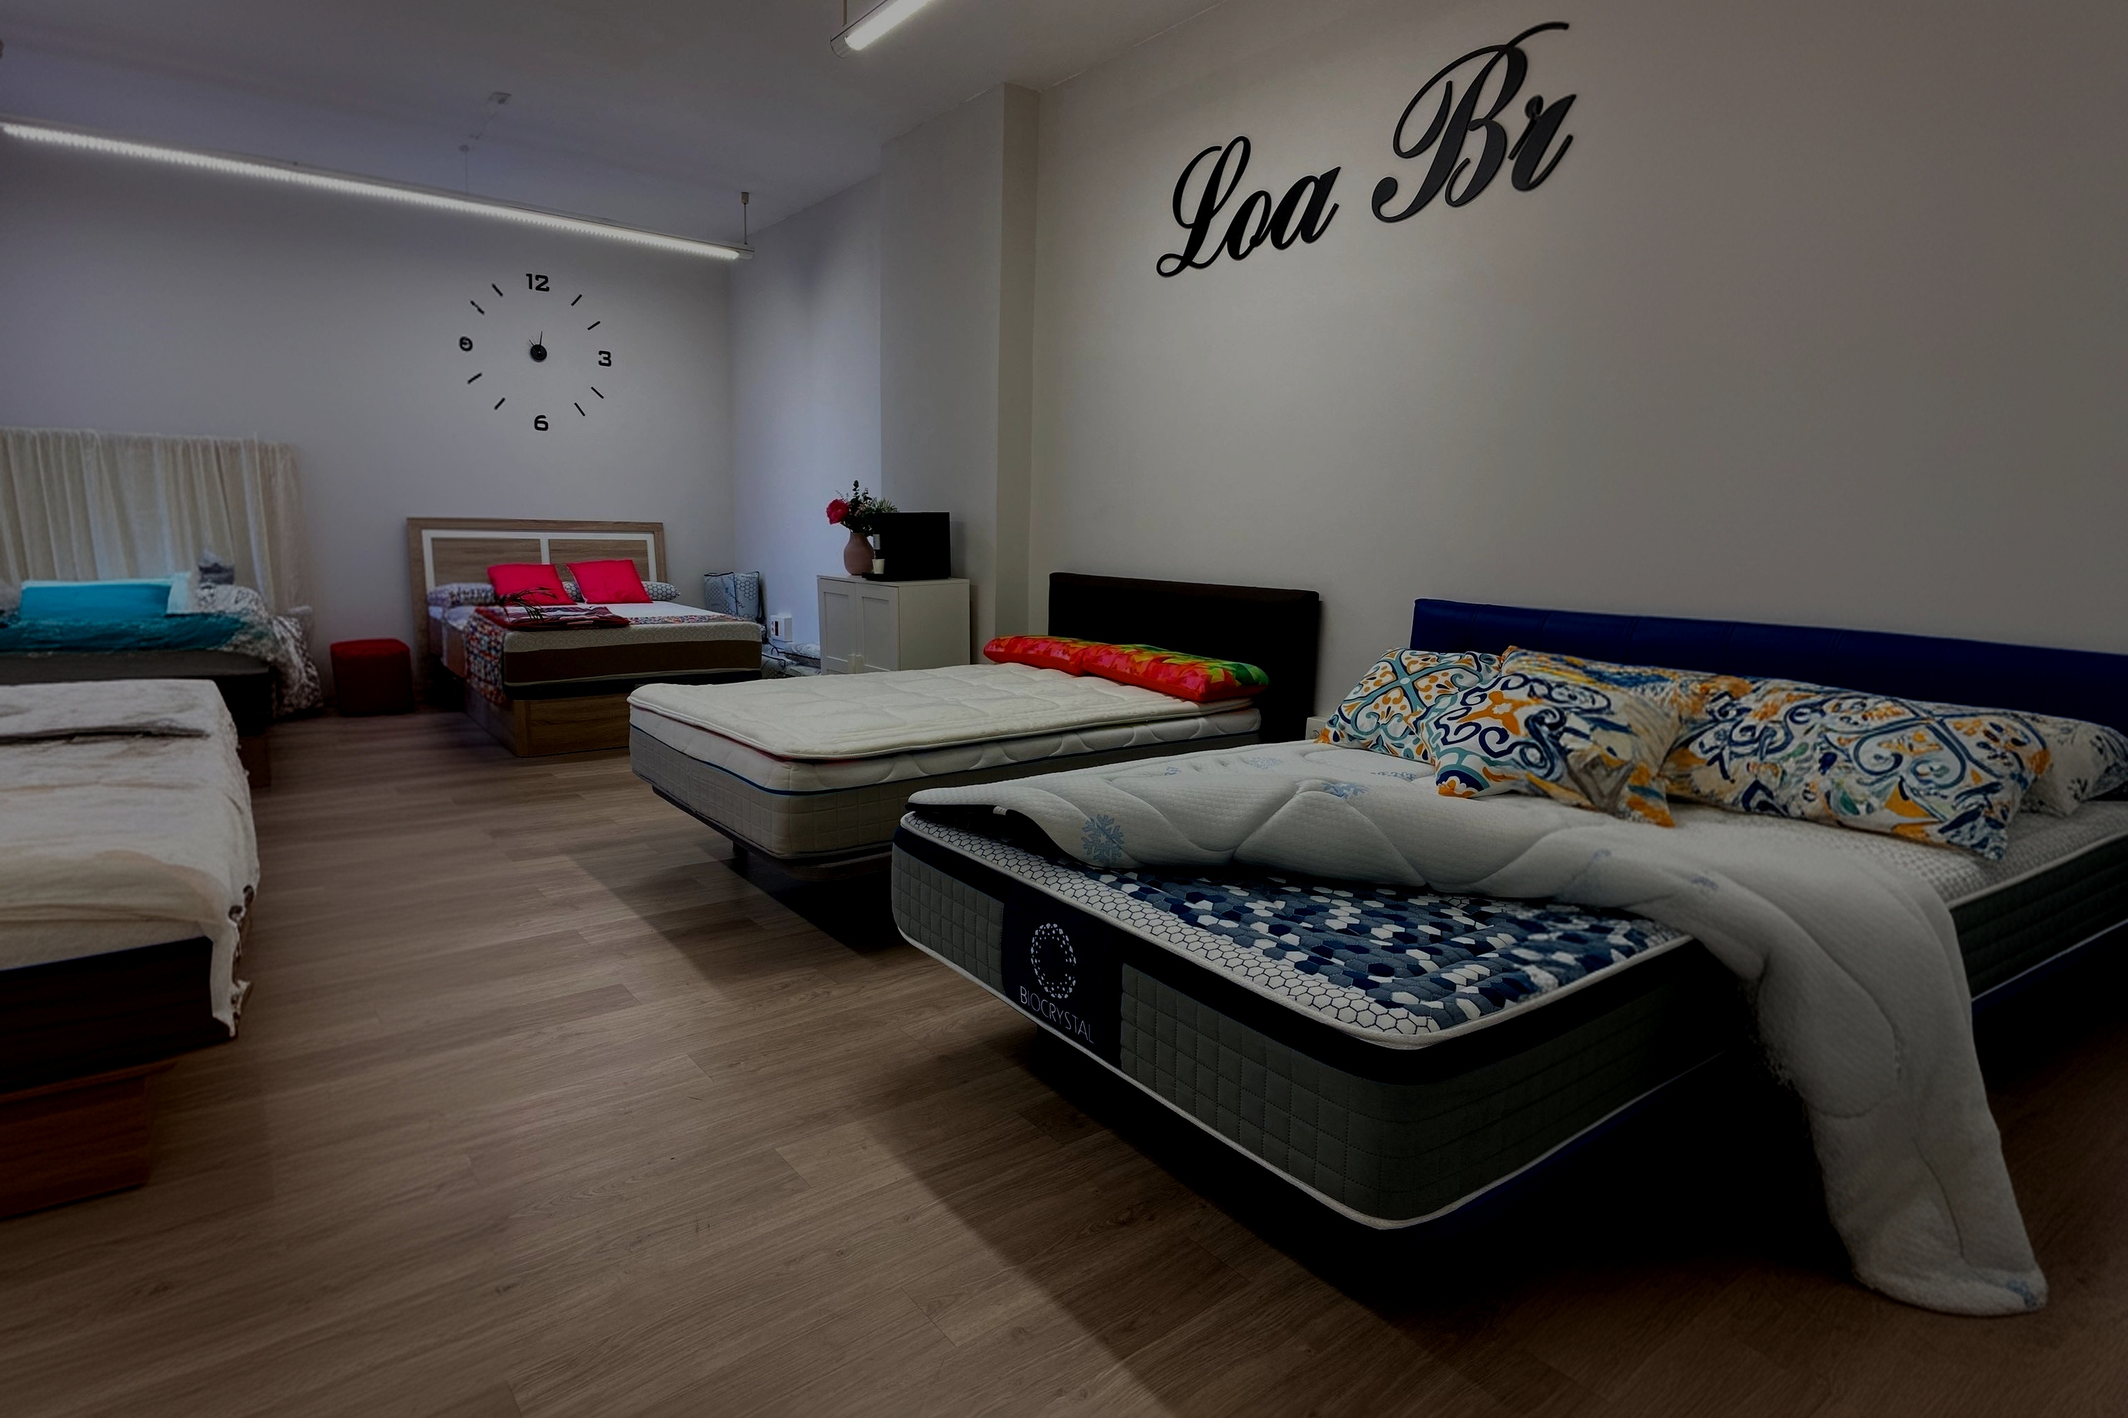
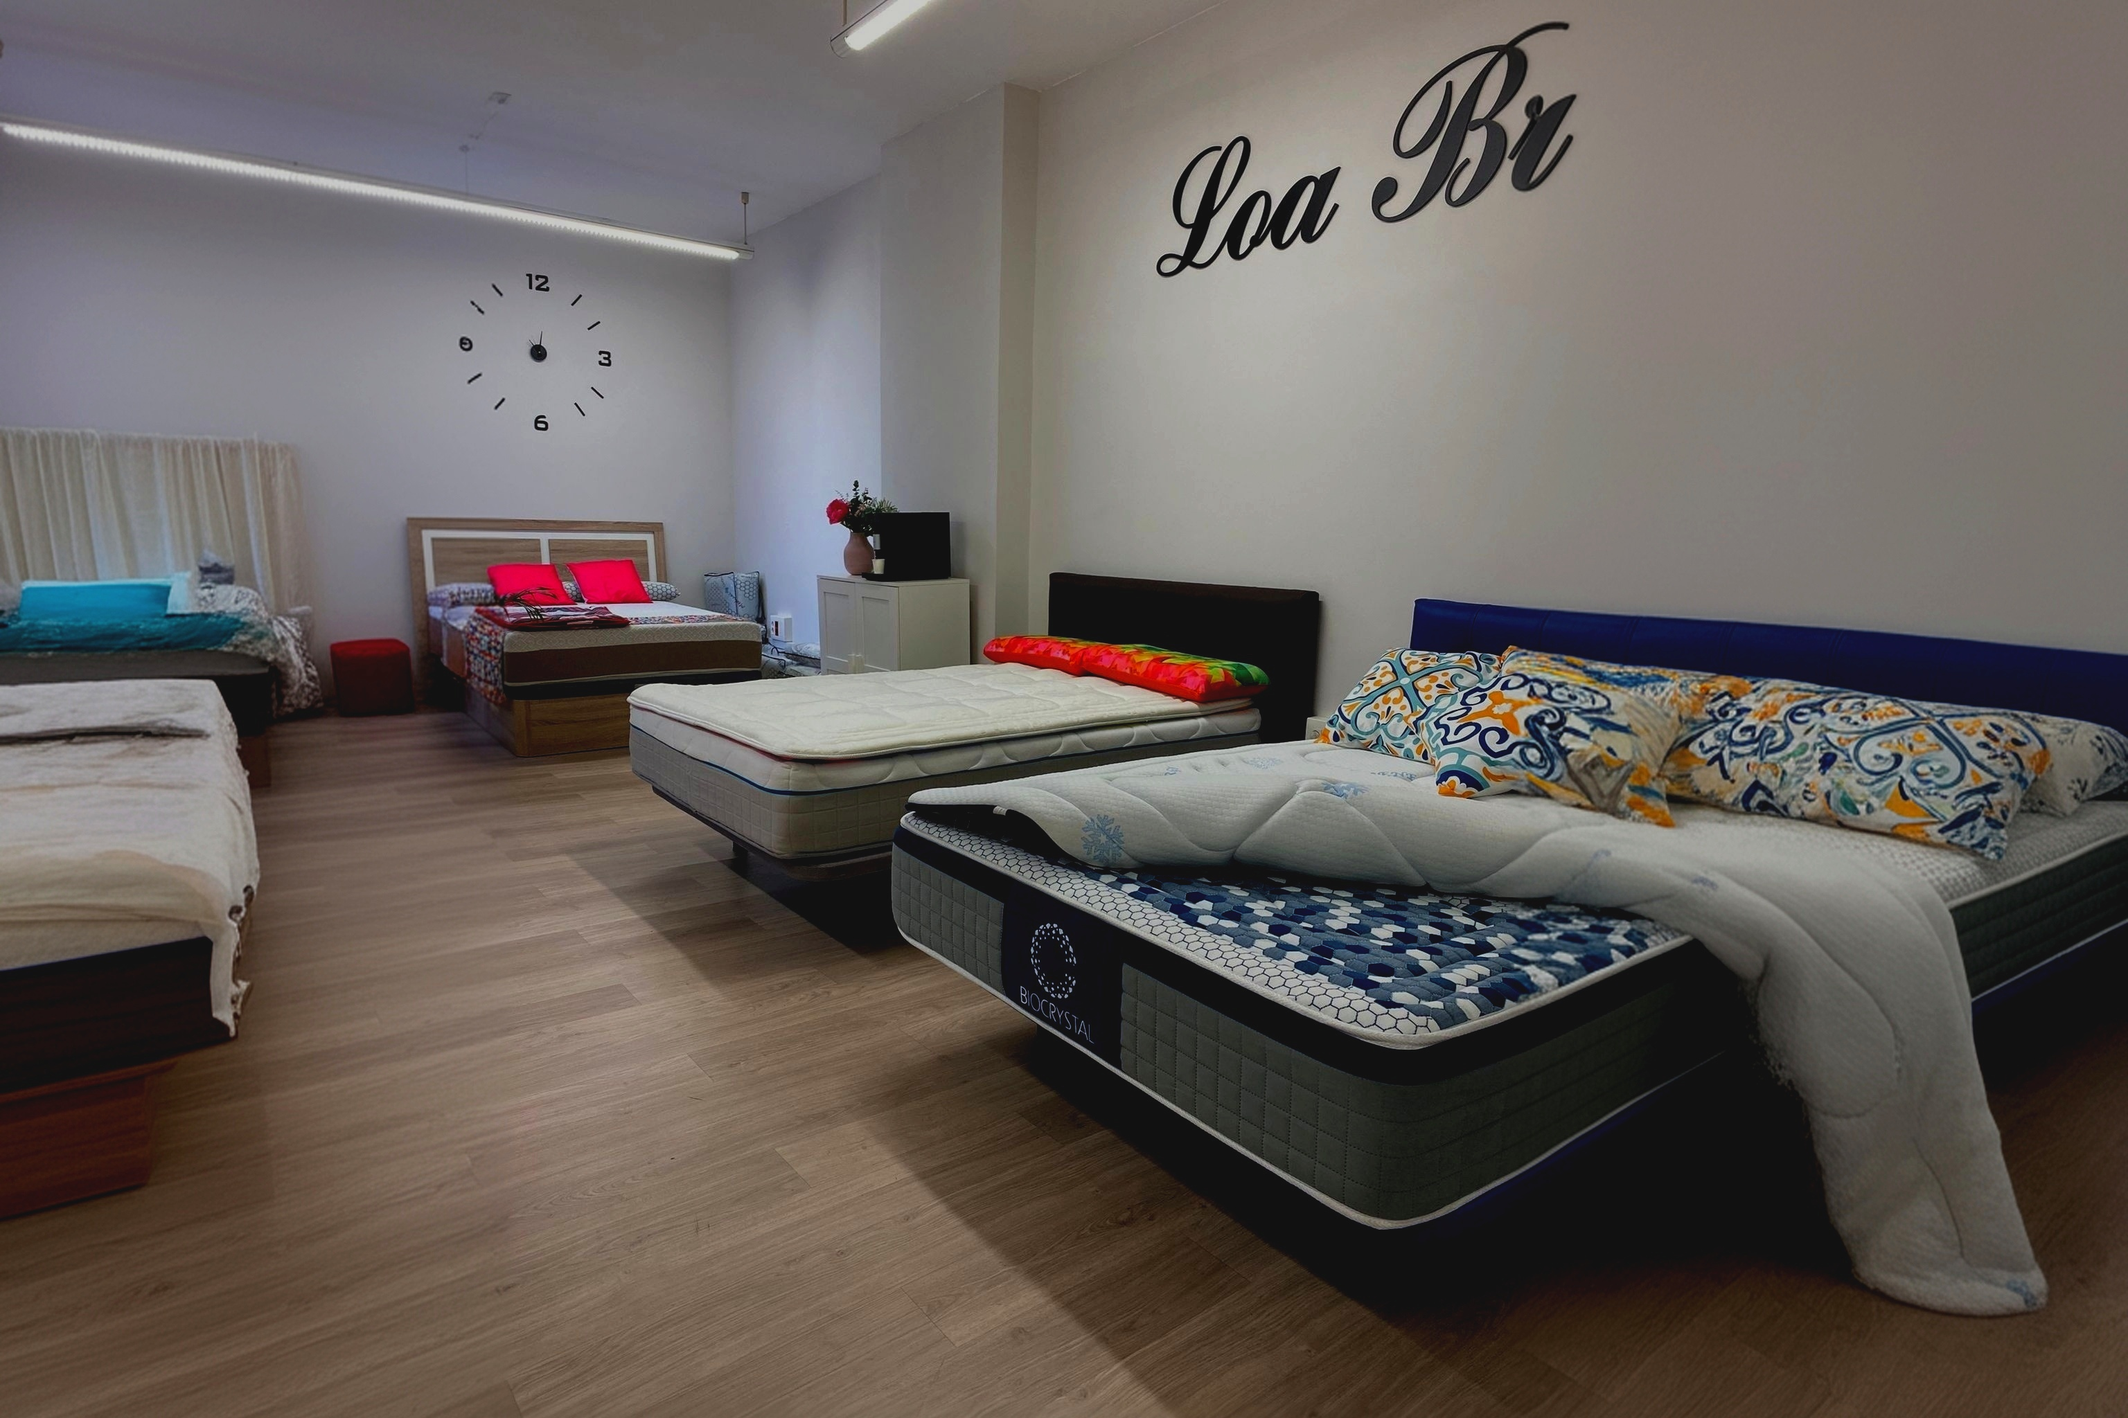
Version 11

diff --git a/index.html b/index.html
@@ -149,21 +149,21 @@
                         <span class="contact_label contact_phone"
                           >Llámenos hoy</span
                         >
-                        <span class="contact_email">94 409 34 54</span>
+                        <span class="contact_email">944073454</span>
                       </div>
                       <div class="contact_field open_hours column-1_3">
                         <span class="contact_icon icon-clock-1"></span>
                         <span class="contact_label open_hours_label"
-                          >Tiempo de trabajo</span
+                          >Horario</span
                         >
-                        <span class="open_hours_time">8.00-18.00</span>
+                        <span class="open_hours_time">9.00-17.00</span>
                       </div>
                       <div class="contact_field contact_address column-1_3">
                         <span class="contact_icon icon-pin-1"></span>
                         <span class="contact_label contact_address_1"
-                          >Abando, 48009 Bilbao</span
+                          >Gran Vía, 48001 Bilbao</span
                         >
-                        <span class="contact_address_2">Bizkaia, España</span>
+                        <span class="contact_address_2">Bilbao, España</span>
                       </div>
                     </div>
                   </div>
@@ -802,9 +802,9 @@
                                               class="sc_call_to_action_button sc_item_button"
                                             >
                                               <a
-                                                href="tel:944093454"
+                                                href="tel:944073454"
                                                 class="sc_button sc_button_square sc_button_style_filled sc_button_size_small sc_button_style_color_style1"
-                                                >94 409 34 54</a
+                                                >944073454</a
                                               >
                                             </div>
                                           </div>
@@ -1590,7 +1590,7 @@
                                     <div class="widget_banner_inner">
                                       <span class="image_wrap"
                                         ><img
-                                          src="images/testimonios.jpg"
+                                          src="images/testimonios.png"
                                           alt=""
                                           width="369"
                                           height="330"
@@ -1607,120 +1607,6 @@
                     </div>
                   </div>
 
-                  <div class="block_1473346822144">
-                    <div class="column">
-                      <div class="main-block">
-                        <div class="wrapper">
-                          <div class="h25"></div>
-                          <div
-                            id="sc_clients_1304864647_wrap"
-                            class="sc_clients_wrap"
-                          >
-                            <div
-                              id="sc_clients_1304864647"
-                              class="sc_clients sc_clients_style_clients-1 margin_top_medium margin_bottom_medium"
-                            >
-                              <div
-                                class="sc_slider_swiper swiper-slider-container sc_slider_nopagination sc_slider_controls sc_slider_controls_side"
-                                data-interval="5342"
-                                data-slides-per-view="6"
-                                data-slides-min-width="100"
-                              >
-                                <div class="slides swiper-wrapper">
-                                  <div class="swiper-slide">
-                                    <div
-                                      id="sc_clients_1304864647_1"
-                                      class="sc_clients_item sc_clients_item_1 odd first"
-                                    >
-                                      <div class="sc_client_image">
-                                        <img
-                                          alt="Client1"
-                                          src="images/client1.png"
-                                        />
-                                      </div>
-                                    </div>
-                                  </div>
-                                  <div class="swiper-slide">
-                                    <div
-                                      id="sc_clients_1304864647_2"
-                                      class="sc_clients_item sc_clients_item_2 even"
-                                    >
-                                      <div class="sc_client_image">
-                                        <img
-                                          alt="Client2"
-                                          src="images/client2.png"
-                                        />
-                                      </div>
-                                    </div>
-                                  </div>
-                                  <div class="swiper-slide">
-                                    <div
-                                      id="sc_clients_1304864647_3"
-                                      class="sc_clients_item sc_clients_item_3 odd"
-                                    >
-                                      <div class="sc_client_image">
-                                        <img
-                                          alt="Client3"
-                                          src="images/client3.png"
-                                        />
-                                      </div>
-                                    </div>
-                                  </div>
-                                  <div class="swiper-slide">
-                                    <div
-                                      id="sc_clients_1304864647_4"
-                                      class="sc_clients_item sc_clients_item_4 even"
-                                    >
-                                      <div class="sc_client_image">
-                                        <img
-                                          alt="Client4"
-                                          src="images/client4.png"
-                                        />
-                                      </div>
-                                    </div>
-                                  </div>
-                                  <div class="swiper-slide">
-                                    <div
-                                      id="sc_clients_1304864647_5"
-                                      class="sc_clients_item sc_clients_item_5 odd"
-                                    >
-                                      <div class="sc_client_image">
-                                        <img
-                                          alt="Client5"
-                                          src="images/client5.png"
-                                        />
-                                      </div>
-                                    </div>
-                                  </div>
-                                  <div class="swiper-slide">
-                                    <div
-                                      id="sc_clients_1304864647_6"
-                                      class="sc_clients_item sc_clients_item_6 even"
-                                    >
-                                      <div class="sc_client_image">
-                                        <img
-                                          alt="Client6"
-                                          src="images/client6.png"
-                                        />
-                                      </div>
-                                    </div>
-                                  </div>
-                                </div>
-                                <div class="sc_slider_controls_wrap">
-                                  <a class="sc_slider_prev" href="#"></a>
-                                  <a class="sc_slider_next" href="#"></a>
-                                </div>
-                                <div class="sc_slider_pagination_wrap"></div>
-                              </div>
-                            </div>
-                            <!-- /.sc_clients -->
-                          </div>
-                          <!-- /.sc_clients_wrap -->
-                          <div class="h20"></div>
-                        </div>
-                      </div>
-                    </div>
-                  </div>
                 </div>
               </div>
               <div class="related_wrap related_wrap_empty"></div>
@@ -1743,7 +1629,7 @@
                     <div class="logo">
                       <a href="index.html"
                         ><img
-                          src="images/logo_footer.png"
+                          src="images/logo_blanco.png"
                           class="logo_main"
                           alt=""
                           width="224"
@@ -1763,10 +1649,10 @@
                 >
                   <div class="textwidget">
                     <h5>Atención al Cliente</h5>
-                    <h5>94 409 34 54</h5>
+                    <h5>LOABILBAO@EDITHOMEIBERICA.ES</h5>
                     <p class="mail_footer">Correo electrónico:</p>
-                    <h5>Abando, 48009 Bilbao</h5>
-                    <h5>Bizkaia, España</h5>
+                    <h5>Gran Vía número 8, 3 piso Dpto 2 48001</h5>
+                    <h5>Bilbao, España</h5>
                     <p class="address_footer">Dirección</p>
                   </div>
                 </aside>
@@ -1784,7 +1670,7 @@
                         <a href="#">Politica de privacidad</a>
                       </li>
                       <li class="menu-item">
-                        <a href="#"></a>Politica de Cookies
+                        <a href="#">Politica de Cookies</a>
                       </li>
                     </ul>
                   </div>

diff --git a/contacts.html b/contacts.html
@@ -149,21 +149,21 @@
                         <span class="contact_label contact_phone"
                           >Llámenos hoy</span
                         >
-                        <span class="contact_email">94 409 34 54</span>
+                        <span class="contact_email">944073454</span>
                       </div>
                       <div class="contact_field open_hours column-1_3">
                         <span class="contact_icon icon-clock-1"></span>
                         <span class="contact_label open_hours_label"
-                          >Tiempo de trabajo</span
+                          >Horario</span
                         >
-                        <span class="open_hours_time">8.00-18.00</span>
+                        <span class="open_hours_time">9.00-17.00</span>
                       </div>
                       <div class="contact_field contact_address column-1_3">
                         <span class="contact_icon icon-pin-1"></span>
                         <span class="contact_label contact_address_1"
-                          >Abando, 48009 Bilbao</span
+                          >Gran Vía, 48001 Bilbao</span
                         >
-                        <span class="contact_address_2">Bizkaia, España</span>
+                        <span class="contact_address_2">Bilbao, España</span>
                       </div>
                     </div>
                   </div>
@@ -176,7 +176,7 @@
                 <nav class="menu_main_nav_area menu_hover_fade">
                   <ul id="menu_main" class="menu_main_nav">
                     <li
-                      class="menu-item current-menu-item current-menu-ancestor current-menu-parent"
+                      class="menu-item"
                     >
                       <a href="index.html"><span>Inicio</span></a>
                     </li>
@@ -189,7 +189,7 @@
                     <li class="menu-item">
                       <a href="#"><span>Sobre nosotros</span></a>
                     </li>
-                    <li class="menu-item">
+                    <li class="menu-item current-menu-item current-menu-ancestor current-menu-parent">
                       <a href="contacts.html"><span>Contacto</span></a>
                     </li>
                   </ul>
@@ -254,14 +254,14 @@
               <div class="contact_field contact_address">
                 <span class="contact_icon icon-home"></span>
                 <span class="contact_label contact_address_1"
-                  >123, New Lenox</span
+                  >Gran Vía número 8, 3 piso Dpto 2</span
                 >
-                <span class="contact_address_2">Chicago, IL 60606</span>
+                <span class="contact_address_2">48001 Bilbao</span>
               </div>
               <div class="contact_field contact_phone">
                 <span class="contact_icon icon-phone"></span>
-                <span class="contact_label contact_phone">123-456-7890</span>
-                <span class="contact_email">info@yoursite.com</span>
+                <span class="contact_label contact_phone">944073454</span>
+                <span class="contact_email">LOABILBAO@EDITHOMEIBERICA.ES</span>
               </div>
 
               <div class="top_panel_top_user_area">
@@ -341,8 +341,7 @@
                                     <div class="content_element">
                                       <div class="wrapper">
                                         <p>
-                                          C/ GRAN VÍA DE DON DIEGO LÓPEZ DE HARO
-                                          N°81, 3° 48001 BILBAO
+                                          Gran Vía número 8, 3 piso Dpto 2. 48001 Bilbao
                                         </p>
                                       </div>
                                     </div>
@@ -353,7 +352,7 @@
                                     </h5>
                                     <div class="content_element">
                                       <div class="wrapper">
-                                        <p>94 409 34 54</p>
+                                        <p>944073454</p>
                                       </div>
                                     </div>
                                     <h5
@@ -515,7 +514,7 @@
                     <div class="logo">
                       <a href="index.html"
                         ><img
-                          src="images/logo_footer.png"
+                          src="images/logo_blanco.png"
                           class="logo_main"
                           alt=""
                           width="224"
@@ -525,19 +524,6 @@
                     <div class="logo_descr">
                       Calidad, confort y confianza.<br />
                       <br />
-                      <img
-                        alt=""
-                        class="widgets_logo_img"
-                        src="images/footer_img_1.png"
-                      /><img
-                        alt=""
-                        class="widgets_logo_img"
-                        src="images/footer_img_2.png"
-                      /><img
-                        alt=""
-                        class="widgets_logo_img"
-                        src="images/footer_img_3.png"
-                      /><br />
                     </div>
                   </div>
                 </aside>
@@ -548,10 +534,10 @@
                 >
                   <div class="textwidget">
                     <h5>Atención al Cliente</h5>
-                    <h5>94 409 34 54</h5>
+                    <h5>LOABILBAO@EDITHOMEIBERICA.ES</h5>
                     <p class="mail_footer">Correo electrónico:</p>
-                    <h5>Abando, 48009 Bilbao</h5>
-                    <h5>Bizkaia, España</h5>
+                    <h5>Gran Vía número 8, 3 piso Dpto 2 48001</h5>
+                    <h5>Bilbao, España</h5>
                     <p class="address_footer">Dirección</p>
                   </div>
                 </aside>
